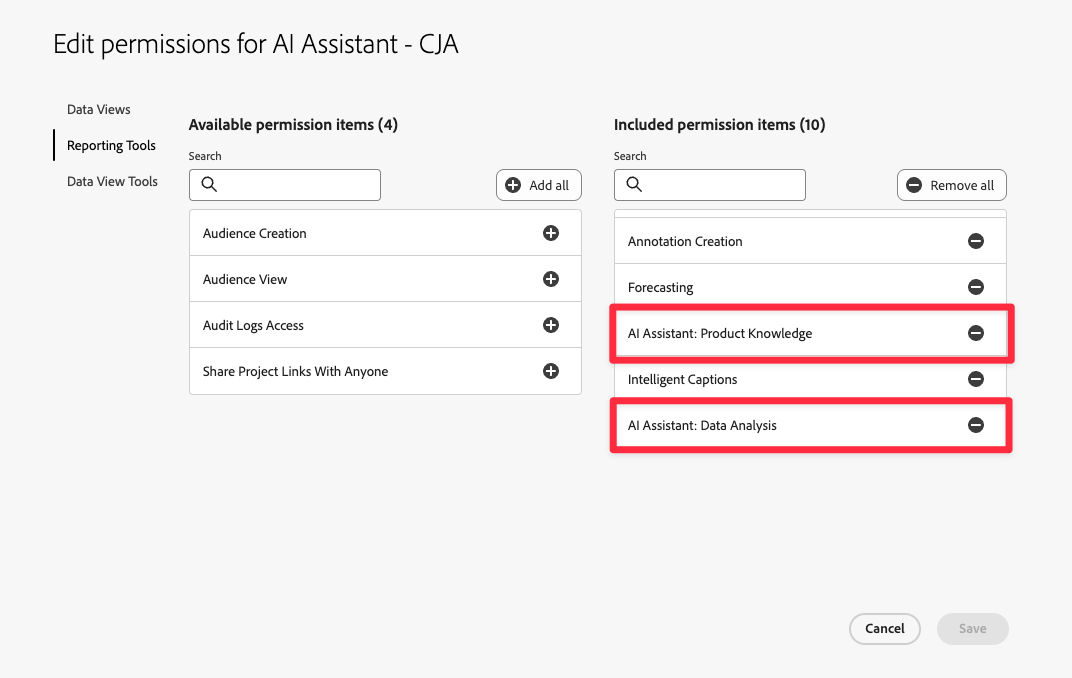
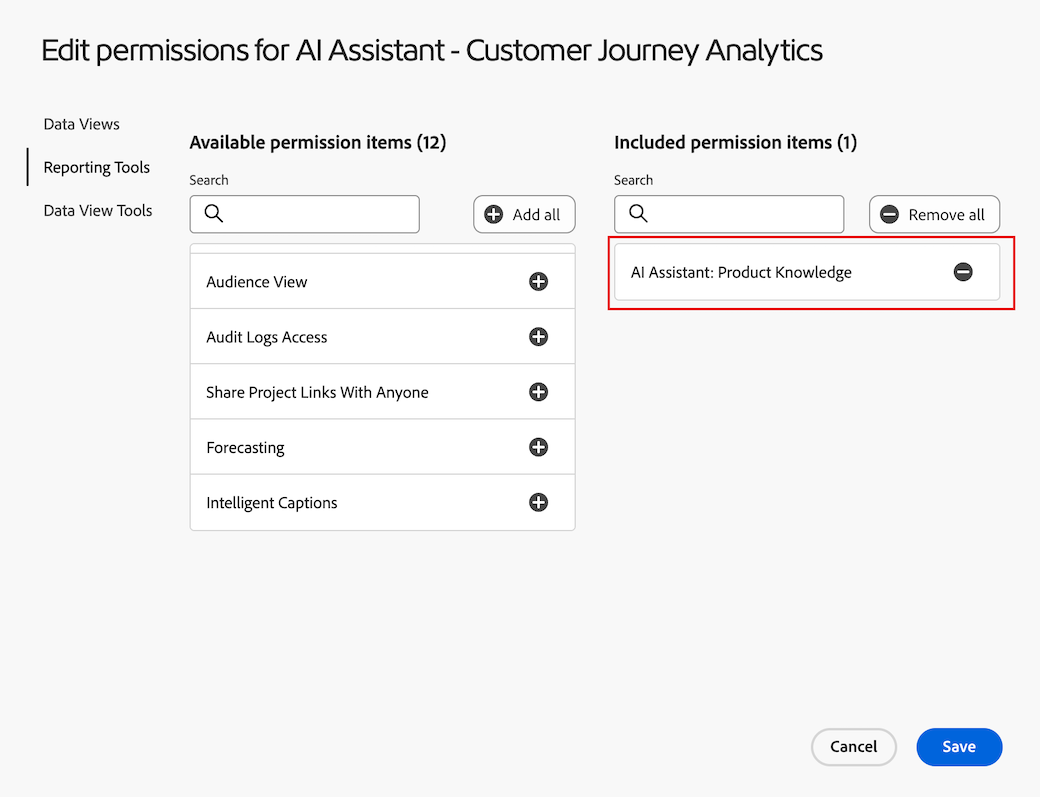
updates

diff --git a/help/data-analysis-ai.md b/help/data-analysis-ai.md
@@ -14,57 +14,85 @@ exl-id: 262d5f15-16cb-4851-a769-7dbd205b2f81
 >
 >Data Insights Agent is available for eligible Customer Journey Analytics customers until November 30, 2025. After that date, a license is required if you want to continue using Data Insights Agent. Please contact your Adobe account team for assistance with the licensing process.
 
-Data Insights Agent, part of the AI Assistant in Customer Journey Analytics, is a generative AI conversation agent that quickly and efficiently answers questions about your data. It builds relevant visualizations in Analysis Workspace using components from your data view and using your actual data.
+Data Insights Agent, accessible from the AI Assistant in Customer Journey Analytics, is a generative AI conversation agent that quickly and efficiently answers questions about your data. It builds relevant visualizations in Analysis Workspace using components from your data view and using your actual data.
 
 Using Data Insights Agent to answer data-centric questions in Analysis Workspace can save countless hours that you might otherwise spend manually building visualizations in Analysis Workspace and familiarizing yourself with your data view components. 
 
 ![Data Insights Agent within the AI Assistant](assets/cja-ai-asst-da.gif)
 
-## In-scope vs. out-of-scope features for the Beta
+## In-scope vs. out-of-scope features
 
-### In-scope Beta features
+
+
+### In-scope features
 
 | Supported feature | Description |
 | --- | --- |
 | **Build and update visualizations** | Generates a freeform table and associated visualization (such as a line, bar, donut, and so forth).<p>Example: *What is the profit across SKUs from February to May?* |
 | **Supported visualization types** | <ul><li>Line</li><li>Multi-line</li><li>Freeform table</li><li>Bar</li><li>Donut</li><li>Summary number</li></ul> |
-| **Out-of-scope prompt detection** | If you submit a prompt that is out of scope, such as "export this project," the Data Insights Agent responds by letting you know that the question is out of scope. | 
-| **Clarifying questions** | If you ask a question that does not have enough context for the Data Insights Agent to answer, or is too generic, the Data Insights Agent responds with a clarifying question or suggested options. Examples: <p>**Components**<ul><li>Metric: *Which "revenue" metric did you mean?*</li><li>Dimension: *Which of the below "regions" do you want to focus on?*</li><li>Segment: *Which "Account" segment did you want to apply?*</li><li>Date Range: *By "last month," did you mean the last full month or the last 30 days?*</li></ul>**Dimension items**: Which "store name" did you mean? (For example, Store #5274, Store #2949, and so forth.) |
-| **Multi-turn** | The Data Insights Agent responds to a prompt with the context from any prior prompts, allowing users to update visualizations and ask follow-up questions. Example: <ul><li>Prompt 1: *Trend events from March.*</li><li>Prompt 2: *Show me the data from March to April instead*</li></ul> |
+| **Out-of-scope prompt detection** | If you submit a prompt that is out of scope, such as "export this project," Data Insights Agent responds by letting you know that the question is out of scope. | 
+| **Clarifying questions** | If you ask a question that does not have enough context for Data Insights Agent to answer, or is too generic, Data Insights Agent responds with a clarifying question or suggested options. Examples: <p>**Components**<ul><li>Metric: *Which "revenue" metric did you mean?*</li><li>Dimension: *Which of the below "regions" do you want to focus on?*</li><li>Segment: *Which "Account" segment did you want to apply?*</li><li>Date Range: *By "last month," did you mean the last full month or the last 30 days?*</li></ul>**Dimension items**: Which "store name" did you mean? (For example, Store #5274, Store #2949, and so forth.) |
+| **Multi-turn** | Data Insights Agent responds to a prompt with the context from any prior prompts, allowing users to update visualizations and ask follow-up questions. Example: <ul><li>Prompt 1: *Trend events from March.*</li><li>Prompt 2: *Show me the data from March to April instead*</li></ul> |
 | **Verifiability** | Data verifiability and correctness can be confirmed via the generated freeform table and data visualization. For example, if a user asks *Trend orders last month*, you can confirm that the correct metric ("orders") and date range ("last month") were selected in the newly generated panel, data visualization, and freeform table. |
 | **Feedback** |<ul><li>Thumbs up</li><li>Thumbs down</li><li>Flag</li></ul> |
 
-### Out-of-scope Beta features 
+### Out-of-scope features 
 
 | Unsupported feature | Description |
 | --- | --- |
-| **In-line summary or response** | The Data Insights Agent cannot respond in-line in the chat rail with a summary answer of a user prompt. Example out-of-scope prompts:<ul><li>*Give me a summary of the insights from my last prompt.*</li><li>*Summarize the highlights from the line visualization.*</li></ul> |
-| **Clarifying questions** | Clarifying questions are limited to components and dimension items. The Data Insights Agent cannot clarify things such as data views, visualizations, data granularity, comparison, and scope. When clarifying questions cannot be used, the Agent defaults to what you are most likely asking for. If it returns an unexpected visualization or data granularity, you can then use the multi-turn / update capability to adjust the visualization and data. |
-| **Workspace actions / Capabilities**| The Data Insights Agent cannot take actions for a user in Workspace aside from building and updating visualizations. For example, it cannot do any of the following:<ul><li>Contextual action UI buttons (add to chart, new panel, new table)</li><li>Share</li><li>Export</li><li>Download</li><li>Manage user preferences</li><li>Curate</li><li>Manage data view</li><li>Analytics Dashboards app</li><li>Attribution</li></ul> |
+| **In-line summary or response** | Data Insights Agent cannot respond in-line in the chat rail with a summary answer of a user prompt. Example out-of-scope prompts:<ul><li>*Give me a summary of the insights from my last prompt.*</li><li>*Summarize the highlights from the line visualization.*</li></ul> |
+| **Clarifying questions** | Clarifying questions are limited to components and dimension items. Data Insights Agent cannot clarify things such as data views, visualizations, data granularity, comparison, and scope. When clarifying questions cannot be used, the Agent defaults to what you are most likely asking for. If it returns an unexpected visualization or data granularity, you can then use the multi-turn / update capability to adjust the visualization and data. |
+| **Workspace actions / Capabilities**| Data Insights Agent cannot take actions for a user in Workspace aside from building and updating visualizations. For example, it cannot do any of the following:<ul><li>Contextual action UI buttons (add to chart, new panel, new table)</li><li>Share</li><li>Export</li><li>Download</li><li>Manage user preferences</li><li>Curate</li><li>Manage data view</li><li>Analytics Dashboards app</li><li>Attribution</li></ul> |
 | **Unsupported visualization types** | <ul><li>Flow</li><li>Fallout</li><li>Cohort Table</li><li>Area, Area Stacked</li><li>Bar Stacked</li><li>Bullet</li><li>Combo</li><li>Histogram</li><li>Horizontal Bar, Horizontal Bar Stacked</li><li>Key Metric Summary</li><li>Scatter</li><li>Summary Change</li><li>Text</li><li>Treemap</li><li>Venn</li></ul> | 
 
-## Manage access to the Data Insights Agent in Customer Journey Analytics
+## Manage access to Data Insights Agent in Customer Journey Analytics
 
-The following parameters govern access to the Data Insights Agent in Customer Journey Analytics:
+The following parameters govern access to Data Insights Agent in Customer Journey Analytics:
 
-* **Solution access**: the Data Insights Agent is available for Customer Journey Analytics Prime and Ultimate customers. It is not available in Adobe Analytics. 
+* **Solution access**: Data Insights Agent is available for Customer Journey Analytics Prime and Ultimate customers. It is not available in Adobe Analytics. 
 
-* **Contractual access**: If you are not able to use the Data Insights Agent in the AI Assistant, please contact your organization's administrator or Adobe Account Representative. Before your organization can use the Data Insights Agent, you must agree to certain GenAI-related legal terms.
+* **Contractual access**: If you are not able to use Data Insights Agent in the AI Assistant, please contact your organization's administrator or Adobe account team. Before your organization can use Data Insights Agent, you must agree to certain legal terms related to generative AI.
 
-* **Permissions**: In the [!UICONTROL Adobe Admin Console], the [!UICONTROL Reporting Tools] **[!UICONTROL AI Assistant: Data visualization]** permission determines access to this tool. A [product profile admin](https://helpx.adobe.com/enterprise/using/manage-product-profiles.html) needs to follow these steps in the [!UICONTROL Admin Console]:
-   1. Navigate to **[!UICONTROL Admin Console]** > **[!UICONTROL Products and services]** > **[!UICONTROL Customer Journey Analytics]** > **[!UICONTROL Product Profiles]**
-   1. Select the title of the product profile for which you want to provide access to [!UICONTROL AI Assistant: Product Knowledge].
-   1. In the specific product profile, select **[!UICONTROL Permissions]**.
-   1. Select ![Edit](/help/assets/icons/Edit.svg) to edit **[!UICONTROL Reporting Tools]**.
-   1. Select ![AddCircle](/help/assets/icons/AddCircle.svg) to add **AI Assistant: Product Knowledge** and **AI Assistant: Data Analysis** to **[!UICONTROL Included permission items]**.
+* **Permissions**: Necessary permissions must be granted in the [!UICONTROL Adobe Admin Console] before users can access Data Insights Agent. 
+
+  To grant permissions, a [product profile admin](https://helpx.adobe.com/enterprise/using/manage-product-profiles.html) must complete the following steps in the [!UICONTROL Admin Console]:
+   1. In the **[!UICONTROL Admin Console]**, select the **[!UICONTROL Products]** tab to view the **[!UICONTROL All products and services]** page.
+   1. Select **[!UICONTROL Customer Journey Analytics]**.
+   1. On the **[!UICONTROL Product Profiles]** tab, select the title of the product profile for which you want to provide access to [!UICONTROL AI Assistant: Product Knowledge].
+   1. In the specific product profile, select the **[!UICONTROL Permissions]** tab.
+
+      ![Permissions tab in Admin Console](assets/ai-assistant-permissions-tab.png)
+
+   1. In the **[!UICONTROL Reporting Tools]** row in the provided table, select the edit icon ![Edit](/help/assets/icons/Edit.svg).
+   1. Scroll to or search for **[!UICONTROL AI Assistant: Product Knowledge]**, then select the plus icon ![AddCircle](/help/assets/icons/AddCircle.svg) next to this permission. 
+   
+      The **[!UICONTROL AI Assistant: Product Knowledge]** permission is added to the **[!UICONTROL Included permission items]** column.
    
       ![Add permission](assets/ai-assistant-permissions.png).
 
+   1. Select the **[!UICONTROL Data View Tools]** tab, then select the plus icon ![AddCircle](/help/assets/icons/AddCircle.svg) next to the **[!UICONTROL Data Insights Agent]** permission.
+
+      The **[!UICONTROL Data Insights Agent]** permission is added to the **[!UICONTROL Included permission items]** column.
+   
+      ![Add permission](assets/ai-assistant-permissions-dataviewtools.png).
+
+   1. Select the **[!UICONTROL Data Views]** tab to choose the data views that you want to enable for Data Insights Agent.
+
+      >[!IMPORTANT]
+      >
+      >The Data Insights Agent will be able to reference the included data views sometime during the same day that you enable them in the Admin Console. 
+   
+   1. Search for or scroll to the data views that you want to enable, then select the plus icon ![AddCircle](/help/assets/icons/AddCircle.svg) next to the name of each data view.
+
+      Each data view you add is visible in the **[!UICONTROL Included permission items]** column.
+   
+      ![Add permission](assets/ai-assistant-permissions-dataviews.png).  
+
    1. Select **[!UICONTROL Save]** to save the permissions.
 
-See [Access control](/help/technotes/access-control.md#access-control) for more information.
+   For additional information about access control, see [Access control](/help/technotes/access-control.md#access-control).
 
-## Access the Data Insights Agent in the AI Assistant
+## Access Data Insights Agent in the AI Assistant
 
 1. Go to [experience.adobe.com](https://experience.adobe.com/) and login with your Adobe ID.
 
@@ -72,7 +100,7 @@ See [Access control](/help/technotes/access-control.md#access-control) for more 
 
 3. Select **[!UICONTROL Blank project]** in the banner at the top of the projects page to open a new blank project.
 
-4. Ensure that the selected data view for the panel is the same data view that was enabled for use with the Data Insights Agent for Beta testing. 
+4. Ensure that the selected data view for the panel is the same data view that was enabled for use with Data Insights Agent for Beta testing. 
 
    If you are unsure, contact the Beta Slack channel.
 
@@ -88,7 +116,7 @@ See [Access control](/help/technotes/access-control.md#access-control) for more 
 
    ![AI Assistant icon](/help/assets/ai-asst-icon.png)
 
-6. In the **[!UICONTROL Ask about Customer Journey Analytics]** dialog at the bottom of the page, ask a data visualization question using the Data Insights Agent.
+6. In the **[!UICONTROL Ask about Customer Journey Analytics]** dialog at the bottom of the page, ask a data visualization question using Data Insights Agent.
  
    For more information, see the following examples.
 
@@ -100,7 +128,7 @@ For example, let's say you are interested in the orders your business received i
 
    ![AI prompt](/help/assets/ai-asst-prompt1.png)
 
-**Response:** The Data Insights Agent gathers insights by looking through the data in the data view, including the metrics and components. It translates the prompt into the right dimensions and metrics within the data range.
+**Response:** Data Insights Agent gathers insights by looking through the data in the data view, including the metrics and components. It translates the prompt into the right dimensions and metrics within the data range.
 
    As you can see, it automatically generated a line graph and a freeform table to show orders for July.
 
@@ -112,13 +140,13 @@ Next, you want to see how your revenue compares by region.
 
 **Prompt:** In the prompt window, enter *"Show revenue by region."*
 
-**Response:** The Data Insights Agent intelligently understands that by "region," you mean "customer region." It produces a bar chart that best shows revenue by region:
+**Response:** Data Insights Agent intelligently understands that by "region," you mean "customer region." It produces a bar chart that best shows revenue by region:
 
    ![Bar chart](/help/assets/ai-asst-result2.png)
    
 ### Example 3
 
-Next, in addition to understanding revenue by region you also want to see data for profit by region. Instead of repeating the previous prompt, you can ask the Data Insights Agent to update the most recent visualization and freeform table. 
+Next, in addition to understanding revenue by region you also want to see data for profit by region. Instead of repeating the previous prompt, you can ask Data Insights Agent to update the most recent visualization and freeform table. 
 
 **Prompt:** In the prompt window, type *"Add profit."*
 
@@ -132,13 +160,13 @@ Finally, let's look at the revenue by product category.
 
 **Prompt:** In the prompt window, enter *"Proportion of revenue by product category."*
 
-**Response:** Again, the Data Insights Agent picks the most appropriate visualization, in this case the **[!UICONTROL Donut]** visualization, to answer the question.
+**Response:** Again, Data Insights Agent picks the most appropriate visualization, in this case the **[!UICONTROL Donut]** visualization, to answer the question.
 
    ![Donut](/help/assets/ai-asst-result3.png)
 
 ## Example data visualization prompts
 
-Following are some examples of common prompts and the visualizations used by the Data Insights Agent to respond to those prompts.
+Following are some examples of common prompts and the visualizations used by Data Insights Agent to respond to those prompts.
 
 | Example prompt | Expected visualization |
 | --- | --- |
@@ -157,7 +185,7 @@ Following are some examples of common prompts and the visualizations used by the
 
 ## Prompting best practices
 
-The Data Insights Agent processes the context provided by each user prompt and tries to respond intelligently with the most appropriate visualization and components in a freeform table. 
+Data Insights Agent processes the context provided by each user prompt and tries to respond intelligently with the most appropriate visualization and components in a freeform table. 
 
 Responses can vary based on the specific words and phrases used in the prompt, and slight changes in language can lead to different results. 
 
@@ -165,13 +193,13 @@ To achieve the best results, consider the following guidelines:
 
 * Be specific: Include exact terms to narrow down the response. Following is an example of a specific prompt: "Last month's sales in California"
 
-* Use clear metrics and segments: Adding specific metrics (such as "Revenue"), dimensions (such as "website name"), segments (such as "iPhone users"), and date ranges (such as "last three months") helps the Data Insights Agent focus on the right data.
+* Use clear metrics and segments: Adding specific metrics (such as "Revenue"), dimensions (such as "website name"), segments (such as "iPhone users"), and date ranges (such as "last three months") helps Data Insights Agent focus on the right data.
 
-* Ask direct questions: Phrasing questions directly makes it easier for the Data Insights Agent to provide clear, relevant insights. Following is an example of asking a direct question in a prompt: "What is the average revenue by product category this year?" 
+* Ask direct questions: Phrasing questions directly makes it easier for Data Insights Agent to provide clear, relevant insights. Following is an example of asking a direct question in a prompt: "What is the average revenue by product category this year?" 
 
-Review the following table of example terms and phrases that you can use in prompts with the Data Insights Agent, along with the types of responses you can expect. 
+Review the following table of example terms and phrases that you can use in prompts with Data Insights Agent, along with the types of responses you can expect. 
 
-These examples are designed to help you get familiar with how specific words or structures can influence the Data Insight Agent's output, ensuring more precise and valuable insights. The Data Insights Agent uses generative AI, so visualizations or selected data may vary slightly across similar prompts.
+These examples are designed to help you get familiar with how specific words or structures can influence Data Insight Agent's output, ensuring more precise and valuable insights. Data Insights Agent uses generative AI, so visualizations or selected data may vary slightly across similar prompts.
   
 | Desired outcome | Example terms and phrases |
 | --- | --- |
@@ -185,7 +213,7 @@ These examples are designed to help you get familiar with how specific words or 
 
 After posing each question, carefully review the assistant's provided answer. It's crucial to evaluate the generated visualizations comprehensively before providing feedback. 
 
-Consider the following when evaluating a response from the Data Insights Agent: 
+Consider the following when evaluating a response from Data Insights Agent: 
 
 * Chat rail response or template: Evaluate the textual response provided. Is the response appropriate given the context of your prompt? 
 
